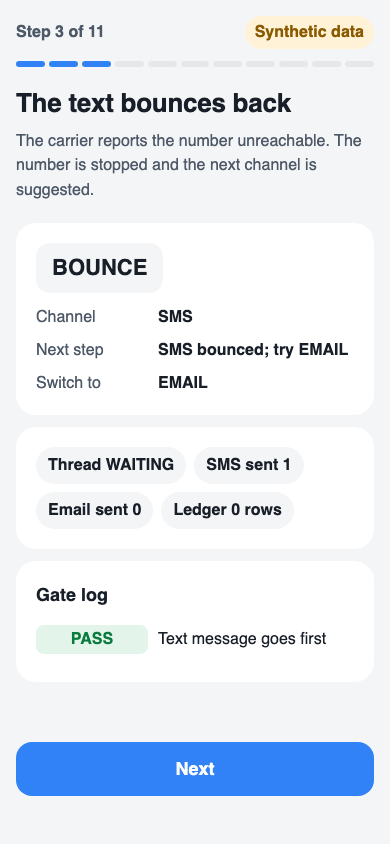
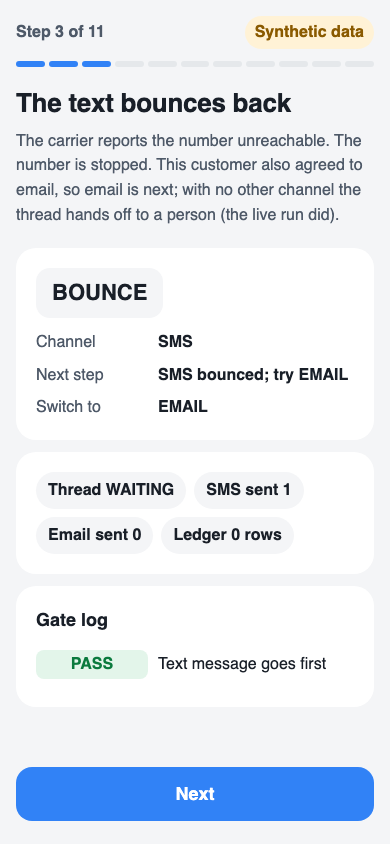
Value in the two-way SMS market (US federal minimum wage, dol.gov): $0.73 per closed thread with the lower bound sized (unclosed thread at most 2.4 cents, one closed thread covers 30); README: problem and difference first, AWS reproduction (IAM actions read from the code, template and direct deploy)

diff --git a/domain/roi.py b/domain/roi.py
@@ -10,6 +10,9 @@ from dataclasses import dataclass
 
 MIN_WAGE_KRW_2026 = 10320          # Minimum Wage Commission of Korea, 2026 hourly rate (minimumwage.go.kr)
 SES_KRW_PER_EMAIL = 0.10 / 1000 * 1364.77   # SES outbound $0.10 per 1,000 emails (aws.amazon.com/ses/pricing); FX assumption
+MIN_WAGE_USD_US_FEDERAL = 7.25     # US Department of Labor, federal minimum wage since 2009-07-24 (dol.gov/agencies/whd/minimum-wage, read 2026-10-27)
+SES_USD_PER_EMAIL = 0.10 / 1000    # SES outbound $0.10 per 1,000 emails (aws.amazon.com/ses/pricing)
+EUM_USD_PER_SMS_MAX = 0.00774 + 0.00421  # US long code $0.00774 + carrier fee $0.00421, AWS pricing page (docs/live/cost-check.md): the upper price per text
 MEASURED_CLOSE_RATE = 8 / 14       # infrastructure/variant_eval.py, 14 synthetic replies, labels written before the run
 
 
@@ -42,3 +45,27 @@ def scenarios(overdue_per_month: int, detail: bool = False) -> dict:
     if detail:
         out["inputs"] = inputs
     return out
+
+
+def us_closed_thread_value_usd(minutes: float = 6, hourly_wage: float = MIN_WAGE_USD_US_FEDERAL) -> float:
+    """Staff time one auto-closed thread saves in a two-way SMS market (US), same m and w roles as the formula above."""
+    return minutes / 60 * hourly_wage
+
+
+def us_scenarios(overdue_per_month: int) -> dict:
+    """Same three scenarios as `scenarios`, in USD at the US federal minimum wage and the SES per-email price."""
+    return {
+        "low": monthly_saving(RoiInputs(overdue_per_month, 0.0, 0, MIN_WAGE_USD_US_FEDERAL, 2, SES_USD_PER_EMAIL)),
+        "base": monthly_saving(RoiInputs(overdue_per_month, MEASURED_CLOSE_RATE, 6, MIN_WAGE_USD_US_FEDERAL, 2, SES_USD_PER_EMAIL)),
+        "high": monthly_saving(RoiInputs(overdue_per_month, 1.0, 12, MIN_WAGE_USD_US_FEDERAL, 1, SES_USD_PER_EMAIL)),
+    }
+
+
+def unclosed_thread_max_loss_usd(sends: int = 2, per_send_usd: float = SES_USD_PER_EMAIL) -> float:
+    """An unclosed thread costs at most its AWS send cost (the shop pays no fee for it)."""
+    return sends * per_send_usd
+
+
+def closed_threads_to_break_even(unclosed_loss_usd: float) -> float:
+    """How many unclosed threads one closed thread's saving covers."""
+    return us_closed_thread_value_usd() / unclosed_loss_usd

diff --git a/tests/test_roi.py b/tests/test_roi.py
@@ -47,3 +47,26 @@ def test_readme_quotes_the_same_base_number():
     readme = (pathlib.Path(__file__).resolve().parent.parent / "README.md").read_text()
     base = round(scenarios(overdue_per_month=40)["base"])
     assert f"{base:,} KRW" in readme
+
+
+def test_us_closed_thread_is_six_minutes_at_federal_minimum_wage():
+    from domain.roi import us_closed_thread_value_usd
+    assert us_closed_thread_value_usd() == pytest.approx(0.725)
+
+
+def test_us_scenarios_ordered_low_negative_and_doc_numbers_match():
+    import pathlib, re
+    from domain.roi import us_scenarios
+    s = us_scenarios(40)
+    assert s["low"] < 0.0 < s["base"] < s["high"]
+    doc = (pathlib.Path(__file__).resolve().parent.parent / "docs" / "ROI.md").read_text()
+    shown = {k: float(v) for k, v in re.findall(r"<!--roi-us:(\w+)-->(-?[\d.]+)<!--/roi-->", doc)}
+    assert shown == {k: round(v, 2) for k, v in s.items()}
+
+
+def test_unclosed_thread_loss_is_send_cost_only_and_one_close_covers_many():
+    from domain.roi import unclosed_thread_max_loss_usd, closed_threads_to_break_even, EUM_USD_PER_SMS_MAX
+    assert unclosed_thread_max_loss_usd() == pytest.approx(0.0002)
+    sms_loss = unclosed_thread_max_loss_usd(2, EUM_USD_PER_SMS_MAX)
+    assert sms_loss == pytest.approx(0.0239)
+    assert int(closed_threads_to_break_even(sms_loss)) == 30

diff --git a/infrastructure/demo_scenario.py b/infrastructure/demo_scenario.py
@@ -95,7 +95,7 @@ def build_story(reply_text: str = DEFAULT_REPLY) -> Story:
             "3 cinema camera kits were due Oct 15. The thread opens with the channels this customer agreed to.")
     rec.send("Text message goes first", "Customers answer texts fastest. The gate checks consent, cap and hours before anything is sent.",
              _req(Channel.SMS, PHONE, "Hi, this is Sample Rentals. Can you confirm when the 3 camera kits come back?"))
-    rec.event("The text bounces back", "The carrier reports the number unreachable. The number is stopped and the next channel is suggested.",
+    rec.event("The text bounces back", "The carrier reports the number unreachable. The number is stopped. This customer also agreed to email, so email is next; with no other channel the thread hands off to a person (the live run did).",
               DeliveryEvent(EventKind.BOUNCE, Channel.SMS, PHONE, rec.clock.now, "fake-sms-1"), "fake-sms-1")
     rec.clock.now = datetime(2026, 10, 22, 22, 10)
     rec.send("Email at night is held", "The email is ready at 22:10. Quiet hours run 21:00 to 08:00, so nothing leaves yet.",

diff --git a/README.md b/README.md
@@ -1,12 +1,12 @@
 # Rental Recovery: an end-to-end agentic workflow on SES and SMS that stops before it over-sends
 
-Small rental shops chase overdue equipment by phone and text. Here, a thread that closes by customer reply and matches the ledger saves about $0.76 of staff time (assumed 6 minutes at Korea's 2026 minimum wage). The shop pays $0.25 per closed thread; threads handed to a person cost no fee. AWS usage is billed to the shop's own account.
+Small rental shops chase overdue equipment by hand, and an AI agent that helps can over-send. Here, every message, from a person or an agent, goes through one gate first; a thread that closes by customer reply and matches the ledger saves about $0.73 of staff time (assumed 6 minutes at the US federal minimum wage of $7.25, [dol.gov](https://www.dol.gov/agencies/whd/minimum-wage), read 2026-10-27; South Korea is email only, own figure in [docs/ROI.md](docs/ROI.md)). The shop pays $0.25 per closed thread; threads handed to a person cost no fee. The lower bound is shown, not hidden: an unclosed thread costs at most its AWS send cost ($0.0002 for 2 emails, $0.024 for 2 texts), and one closed thread covers 30 unclosed text threads. AWS usage is billed to the shop's own account.
 
 A small equipment-rental shop chases every overdue item by hand: a text or email asking "when will you bring it back?", then a ledger update. This repo runs that conversation end to end on AWS Communication Developer Services (Amazon SES and End User Messaging SMS): open the overdue item, send through an outbound gate (PASS, HOLD, BLOCK or APPROVAL, shown before every send, human or agent), read the reply into quantity and date, check it against the ledger, then post it and close, or hand it to a person with a reason. Delivery, bounce and opt-out events change the next decision.
 
 **What is different:** an AI agent's proposal cannot get around the gate either (one dispatch point, test `test_g11_no_path_to_sender_except_gate`), and the customer's answer is checked against the ledger before anything is posted. The customer scene is a market where two-way SMS is supported (United States, Canada, United Kingdom, Australia in the End User Messaging country table); in South Korea two-way SMS is not supported, so there the conversation runs on email only.
 
-**Try it in 3 minutes, no AWS account, no login, no install:** `python3 -m infrastructure.web` then open http://127.0.0.1:8765 (Python 3.9+, standard library only). At step 10 type your own customer reply; the reader and ledger check run on your text. All data on the screen is synthetic. Example: "We will drop off all 3 tomorrow morning" reads as 3 units, next day, matches the ledger ([screenshot](docs/screens/try-your-reply.png), fresh browser, no login).
+**Try it in 3 minutes, no AWS account, no login, no install:** `python3 -m infrastructure.web` then open http://127.0.0.1:8765 (Python 3.9+, standard library only). At step 10 type your own customer reply; the reader and ledger check run on your text. All data on the screen is synthetic. Example: "We will drop off all 3 on Thursday morning" reads as 3 units, Oct 29, matches the ledger ([screenshot](docs/screens/try-your-reply.png), fresh browser, no login).
 
 ## How this differs from what already exists
 
@@ -34,12 +34,12 @@ Read from each product's public page on 2026-10-26. "Not shown" means we did not
 | Lambda `events_handler` | Deployed without CloudFormation (`tools/deploy_direct.py`) and invoked 3 times: SMS delivery shape carrying the real SMS message id, SES bounce, and an unknown type that comes back `ignored: 1`. The invocations used documented event shapes; AWS did not push them, because SNS is denied to the IAM user | `docs/live/deploy-log.jsonl`, `docs/screens/aws-lambda-deploy.png` |
 | SES receiving, SNS topics, inbound Lambda (`template.yaml`) | Code, unit tests, `cfn-lint` pass; not deployed. SES receiving needs a domain with an MX record, which this account does not own; SNS `CreateTopic` is refused by IAM | `tests/test_lambda_handlers.py`, [AGENTS.md](AGENTS.md) |
 | AI agent | A scripted agent stands in for AgentCore; it goes through the same gate | `test_g11_no_path_to_sender_except_gate` |
-| Reply-reading assist on Amazon Bedrock (Converse, Nova Micro), called only when the regex reader's confidence is below 0.8 | Code and 17 tests (fake client). Live: 3 Converse calls on 2026-10-27 succeeded (192 input+output tokens on the first, about $0.00003 for all three); 2 answers were grounded in the customer's words and matched the ledger, the third stayed unread and nothing was guessed. An earlier attempt on 2026-10-26 was refused by IAM (`AccessDeniedException`) and ended in logged hand-offs; both runs are in the log | `adapters/bedrock.py`, `tests/test_reply_assist.py`, `docs/live/bedrock-log.jsonl` |
+| Reply-reading assist on Amazon Bedrock (Converse, Nova Micro), called only when the regex reader's confidence is below 0.8 | Code and 17 tests (fake client). Live: 3 Converse calls on 2026-10-27 succeeded (192 input+output tokens on the first, about $0.00003 for all three); 2 answers were grounded in the customer's words and matched the ledger, the third stayed unread and nothing was guessed. Known limit: the first reply says Saturday (Oct 31 on the run's clock, Oct 26) and the model returned Oct 30; the ledger check compares quantity and a date inside the 14-day window, not weekday against date. An earlier attempt on 2026-10-26 was refused by IAM (`AccessDeniedException`) and ended in logged hand-offs; both runs are in the log | `adapters/bedrock.py`, `tests/test_reply_assist.py`, `docs/live/bedrock-log.jsonl` |
 | Closure rate 8 of 14 reply variants | Measures the gate and hand-off rules, not language understanding (regex reader, synthetic replies) | `infrastructure/variant_eval.py` |
 | Deployment (`template.yaml`) | CloudFormation `CreateStack` refused by IAM on 2026-10-27 (logged). The parts the IAM user may create were deployed directly: Lambda `cds-rr-events`, SMS configuration set `cds-rr-sms`; SES configuration set `cds-rr` exists from the SES run | `docs/live/deploy-log.jsonl` |
 | Screen | Synthetic data, labelled on every screen | `docs/screens/` |
 
-Value is stated as a formula with its lower bound: `N × c × m / 60 × w − N × s × p` ([docs/ROI.md](docs/ROI.md)); base case 23,578 KRW (about $17) per month for 40 overdue items at minimum wage, low case below zero.
+Value is stated as a formula with its lower bound: `N × c × m / 60 × w − N × s × p` ([docs/ROI.md](docs/ROI.md)); base case 23,578 KRW (about $17) per month for 40 overdue items at the Korean minimum wage, or $16.56 at the US federal minimum wage (US row in the same file); low case below zero by the send cost only ($0.008 for 40 threads).
 
 ![Architecture](docs/architecture.png)
 
@@ -59,7 +59,36 @@ python3 -m venv .venv && .venv/bin/pip install pytest boto3
 .venv/bin/python -m infrastructure.web   # open http://127.0.0.1:8765
 ```
 
-Tests: <!--tests-->132<!--/tests--> passing (`tools/check_readme.py` fails if this number drifts).
+Tests: <!--tests-->135<!--/tests--> passing (`tools/check_readme.py` fails if this number drifts).
+
+## AWS reproduction
+
+Everything above runs locally with no account. To repeat the live runs in your own AWS account (us-east-1, SES and SMS sandboxes; only verified addresses and AWS simulator numbers receive), the IAM user needs these actions. The list is read from the API calls in the code (`grep` for `send_email`, `send_text_message`, `converse`, ...), not from memory:
+
+| Step | Code that calls it | IAM actions |
+|---|---|---|
+| Send email through the gate | `adapters/ses.py` (`send_email`) | `ses:SendEmail` on a verified identity |
+| Read SES events back (no SNS) | `adapters/ses_metrics.py` (`list_metrics`) | `cloudwatch:ListMetrics` |
+| Send text, read opt-outs | `adapters/eum_sms.py` (`send_text_message`, `describe_opted_out_numbers`), `tools/live_sms.py` (`describe_phone_numbers`, `put_opted_out_number`) | `sms-voice:SendTextMessage`, `sms-voice:DescribeOptedOutNumbers`, `sms-voice:DescribePhoneNumbers`, `sms-voice:PutOptedOutNumber`; a SIMULATOR origination number must exist first (`sms-voice:RequestPhoneNumber`, requested by hand once, $1 a month) |
+| Read SMS delivery back | `adapters/sms_metrics.py` (`get_metric_data`, namespace `AWS/SMSVoice`) | `cloudwatch:GetMetricData` |
+| Reply assist | `adapters/bedrock.py` (`converse`) | `bedrock:InvokeModel` on `amazon.nova-micro-v1:0` (model access enabled for the account) |
+| Deploy without CloudFormation | `tools/deploy_direct.py` | `sms-voice:DescribeConfigurationSets`, `sms-voice:CreateConfigurationSet`, `iam:GetRole`, `iam:PassRole` (the role you pass), `lambda:GetFunction`, `lambda:CreateFunction`, `lambda:UpdateFunctionCode`, `lambda:InvokeFunction`, `sns:CreateTopic` (optional, skipped and logged when refused) |
+| Deploy with CloudFormation | `template.yaml` | the CloudFormation, Lambda, IAM-role, SNS, SES, SMS Voice and S3 actions the stack creates (see [AGENTS.md](AGENTS.md)) |
+
+Deploy with the template (needs the actions in the last row):
+
+```
+sam deploy --stack-name cds-rental-recovery --resolve-s3 --capabilities CAPABILITY_IAM --parameter-overrides SenderEmail=<address you own>
+```
+
+Without CloudFormation (what the author had to use; no IAM role or policy is created or changed):
+
+```
+AWS_PROFILE=<p> CDS_LAMBDA_ROLE=<existing role with AWSLambdaBasicExecutionRole> python3 tools/deploy_direct.py deploy
+AWS_PROFILE=<p> python3 tools/deploy_direct.py invoke   # one Lambda invocation per event shape
+```
+
+Then the live runs: `AWS_PROFILE=<p> python3 tools/live_ses.py send` then `settle`; `python3 tools/live_sms.py send <case>` then `settle <case>`; `python3 tools/live_bedrock.py`. The errors this account got instead (CloudFormation `CreateStack` and SNS `CreateTopic` refused) are kept unedited in `docs/live/deploy-log.jsonl`.
 
 ## Layers (no reverse imports, enforced by `tests/test_layers.py`)
 

diff --git a/docs/ROI.md b/docs/ROI.md
@@ -26,3 +26,23 @@ Result for N = 40 (computed by `domain/roi.py`, checked by `tests/test_roi.py`):
 
 What this does not count: earlier return of equipment (more rental days sold), unpaid balances collected, fewer lost items. None of those is measured yet, so none is claimed.
 The low case is negative on purpose: if the reader closes nothing, the shop pays only the send cost and gets the hand-off queue it already had by hand.
+
+## US row: the market where two-way SMS works
+
+The customer scene (text, reply, read, ledger) runs where End User Messaging supports two-way SMS (United States, Canada, United Kingdom, Australia); South Korea is email only. So the headline value uses a US wage. Same formula, same N, c, m, s; only w and p change.
+
+| Symbol | Meaning | Low | Base | High | Source |
+|---|---|---|---|---|---|
+| w | hourly wage, USD | 7.25 | 7.25 | 7.25 | US federal minimum wage, $7.25 per hour effective July 24, 2009, U.S. Department of Labor, Wage and Hour Division (https://www.dol.gov/agencies/whd/minimum-wage, read 2026-10-27) — a floor, real wages are higher |
+| p | cost per email, USD | 0.0001 | 0.0001 | 0.0001 | SES outbound $0.10 per 1,000 emails (aws.amazon.com/ses/pricing, read 2026-10-26) |
+
+One closed thread saves 6 / 60 × 7.25 = **$0.725** of staff time (about 73 cents). Result for N = 40 (computed by `domain/roi.py` `us_scenarios`, checked by `tests/test_roi.py`):
+
+| Scenario | USD per month |
+|---|---|
+| Low (nothing closes) | <!--roi-us:low-->-0.01<!--/roi--> |
+| Base | <!--roi-us:base-->16.56<!--/roi--> |
+| High | <!--roi-us:high-->58.00<!--/roi--> |
+
+Size of the lower bound: the most an unclosed thread can cost is its AWS send cost, because the shop pays this product no fee for it. 2 emails = $0.0002. 2 text messages = $0.0239 (the upper price per text, $0.00774 + $0.00421 carrier fee = $0.01195, AWS pricing page, `docs/live/cost-check.md`; the measured spend was $0.00774 each). One closed thread ($0.725) covers the send cost of 30 unclosed text threads, or 3,625 unclosed email threads. No new assumption was added: m = 6 and s = 2 are the rows above.
+The Korean figure stays in the first table (email only, 1,032 KRW per closed thread at 10,320 KRW).

diff --git a/docs/OFFERING.md b/docs/OFFERING.md
@@ -2,7 +2,7 @@
 
 **Who pays:** a small equipment-rental shop (cameras, tools, event gear) that chases overdue returns by phone and text today.
 **Price:** USD 0.25 per thread that closes without a person (reply read, matched to the ledger, posted). Threads handed to a person cost nothing. AWS usage (SES $0.10 per 1,000 emails, SMS by country) is billed by AWS to the shop's own account.
-**Why that price:** at the Korean 2026 minimum wage a closed thread saves about 1,032 KRW (6 minutes, `docs/ROI.md`), about USD 0.76; the shop keeps about two thirds of the saving even at the lowest wage, and pays nothing when the reader closes nothing.
+**Why that price:** at the US federal minimum wage ($7.25, dol.gov) a closed thread saves about USD 0.73 (6 minutes, `docs/ROI.md`; the Korean figure, 1,032 KRW, is in the same file); the shop keeps about two thirds of the saving even at the lowest wage, and pays nothing when the reader closes nothing.
 **Install steps (per shop):** 1) `sam deploy` from `AGENTS.md` into the shop's AWS account, 2) verify the shop's sender address or domain, 3) import the ledger of overdue items (CSV columns: item, customer, quantity, due date, email, phone, consent per channel), 4) set quiet hours and daily cap, 5) run the preflight and post-deploy checks.
 **Throughput limits:** SES sandbox 200 emails per 24 h and 1 per second until production access; the gate caps each customer at 2 messages per day; the regex reader takes about 0.01 ms per reply (measured 2026-10-26 on a laptop, 2,000 runs; no model call), so reading is never the limit.
 **ACE opportunity:** to be registered in AWS Partner Central under the hackathon campaign before submission (ID added here then).

diff --git a/docs/SOURCES.md b/docs/SOURCES.md
@@ -22,3 +22,4 @@ Each sentence below was compared with the page on the date shown. Result: match,
 | Simulator number $1 a month; simulator sends billed at the standard rate; US long code $0.00774 + carrier fee $0.00421 (docs/live/cost-check.md) | aws.amazon.com/end-user-messaging/pricing ("monthly lease price of $1" / "you pay the standard outbound SMS or MMS messaging rate") and the SMS price CSV linked there | 2026-10-27 | match; the account's own `TextMessageMonthlySpend` metric showed $0.00774 after the first send (no carrier fee on simulator traffic) |
 | SMS sandbox: $1 monthly SMS spending limit (docs/live/cost-check.md) | docs.aws.amazon.com/sms-voice/latest/userguide/sandbox.html ("You have a monthly SMS spending limit of $1.00 (USD).") and `describe_spend_limits` on our account (enforced 1, max 1) | 2026-10-27 | match |
 | SMS delivery counts in CloudWatch, namespace AWS/SMSVoice, `NumberOfTextMessagePartsSent` / `NumberOfTextMessagePartsDelivered` (adapters/sms_metrics.py) | docs.aws.amazon.com/sms-voice/latest/userguide/monitoring-cloudwatch.html | 2026-10-27 | match; the service-linked role AWSServiceRoleForSMSVoice appeared when the simulator number was requested |
+| US federal minimum wage $7.25 per hour (docs/ROI.md US row) | dol.gov/agencies/whd/minimum-wage ("The federal minimum wage is $7.25 per hour effective July 24, 2009"); curl is refused with 403 (bot protection), read in a browser | 2026-10-27 | match |
